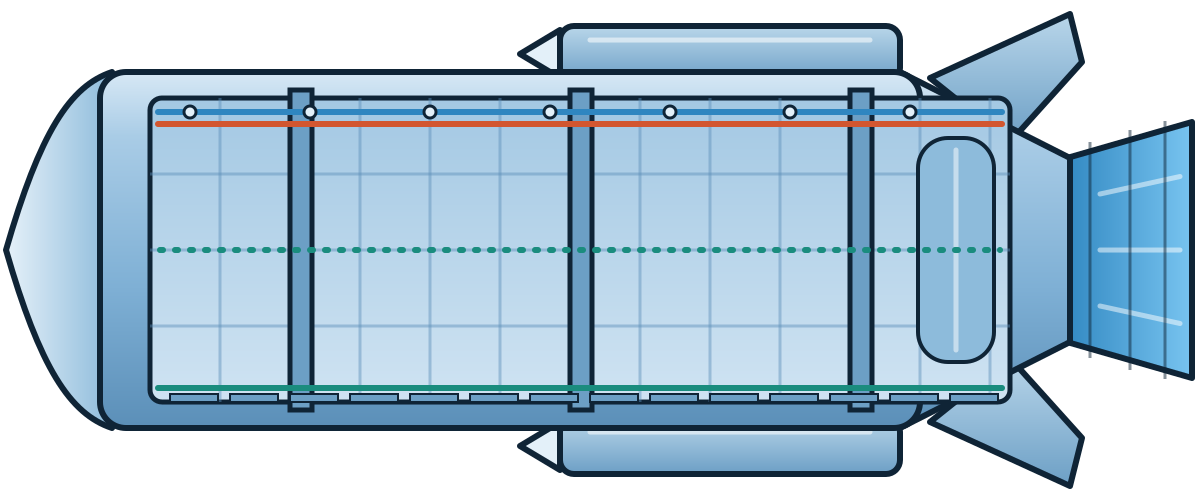
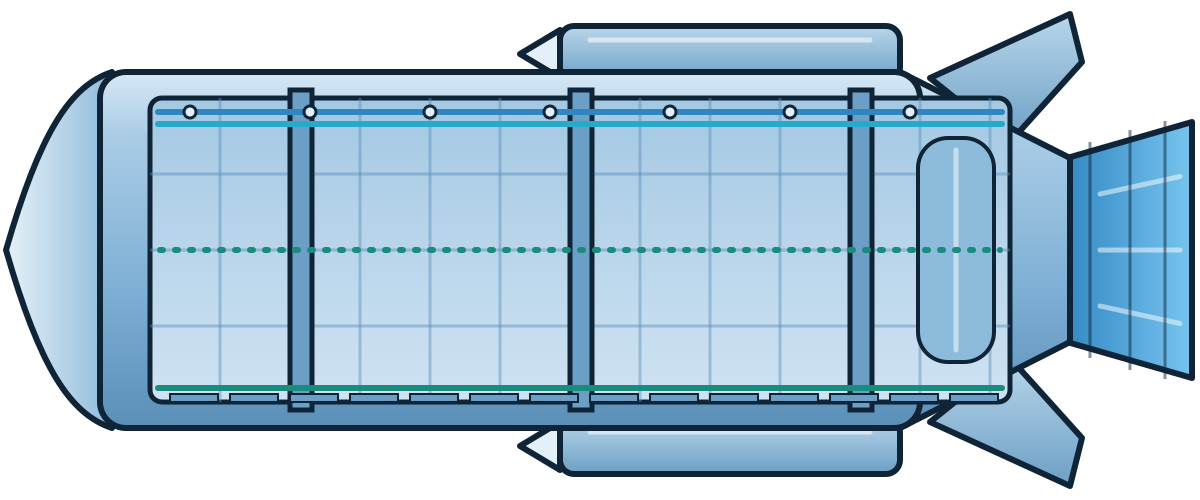
🛰🧊 ↝ [SSL-423 SSL-448]: Rocket livery stripe is teal instead of orange, mining help button no longer collides with the dev skip button

Changed region(s): [[0.1233, 0.24, 0.8325, 0.27]]

diff --git a/web/components/game/screens/MiningScreen.tsx b/web/components/game/screens/MiningScreen.tsx
@@ -517,7 +517,7 @@ export default function MiningScreen({ mission, target, rocketImageSrc, onComple
           data-testid="dev-skip-mining-btn"
           onClick={handleDevSkip}
           style={{
-            position: 'absolute', top: 8, right: 8, zIndex: 999,
+            position: 'absolute', top: 58, right: 8, zIndex: 999,
             padding: '3px 8px',
             background: 'var(--ln-bp-paper)',
             border: '1px solid var(--ln-bp-green)',
@@ -538,7 +538,7 @@ export default function MiningScreen({ mission, target, rocketImageSrc, onComple
       {/* KES-282: moved out of the always-visible stats row (which was competing
           with the mineral/charge readout for attention) into a small standalone
           corner control — same button, same testid/behavior, lower prominence.
-          Sits left of the dev-only Skip Mining button so the two never overlap. */}
+          The dev-only Skip Mining button sits below it so the two never overlap. */}
       <button
         data-testid="mining-guide-btn"
         onClick={() => setGuideOpen(o => !o)}
@@ -547,7 +547,7 @@ export default function MiningScreen({ mission, target, rocketImageSrc, onComple
         style={{
           position: 'absolute',
           top: 8,
-          right: process.env.NODE_ENV === 'development' ? 108 : 8,
+          right: 8,
           zIndex: 90,
           width: 44,
           height: 44,

diff --git a/web/scripts/rocket-art/build.py b/web/scripts/rocket-art/build.py
@@ -11,7 +11,7 @@ OUT = pathlib.Path('public/game/assets/ships')
 
 MODELS = {
     'sr1': dict(pods=[(560, 900)], stripe='#1a8c7e', stripe2='#14695f', windows=3),
-    'sr2': dict(pods=[(420, 640), (680, 900)], stripe='#d2562f', stripe2='#9e3c1e', windows=4),
+    'sr2': dict(pods=[(420, 640), (680, 900)], stripe='#27a9c9', stripe2='#17718a', windows=4),
 }
 TOP, BOT, MID = 72, 428, 250
 
@@ -98,7 +98,7 @@ def cutaway_bay(m):
     for x in (x0 + 140, x0 + 420, x0 + 700):
         p.append(f'<rect x="{x}" y="{y0-8}" width="22" height="{y1-y0+16}" fill="#6c9fc5" stroke="{INK}" stroke-width="5"/>')
     # conduits along the ceiling, floor deck plates and pipe runs
-    for y, col in ((y0 + 14, '#2f86c0'), (y0 + 26, '#d2562f'), (y1 - 14, '#1a8c7e')):
+    for y, col in ((y0 + 14, '#2f86c0'), (y0 + 26, '#27a9c9'), (y1 - 14, '#1a8c7e')):
         p.append(f'<line x1="{x0+8}" y1="{y}" x2="{x1-8}" y2="{y}" stroke="{col}" stroke-width="6" stroke-linecap="round"/>')
     for x in range(x0 + 40, x1 - 20, 120):
         p.append(f'<circle cx="{x}" cy="{y0+14}" r="6" fill="#e3f0f9" stroke="{INK}" stroke-width="3"/>')
